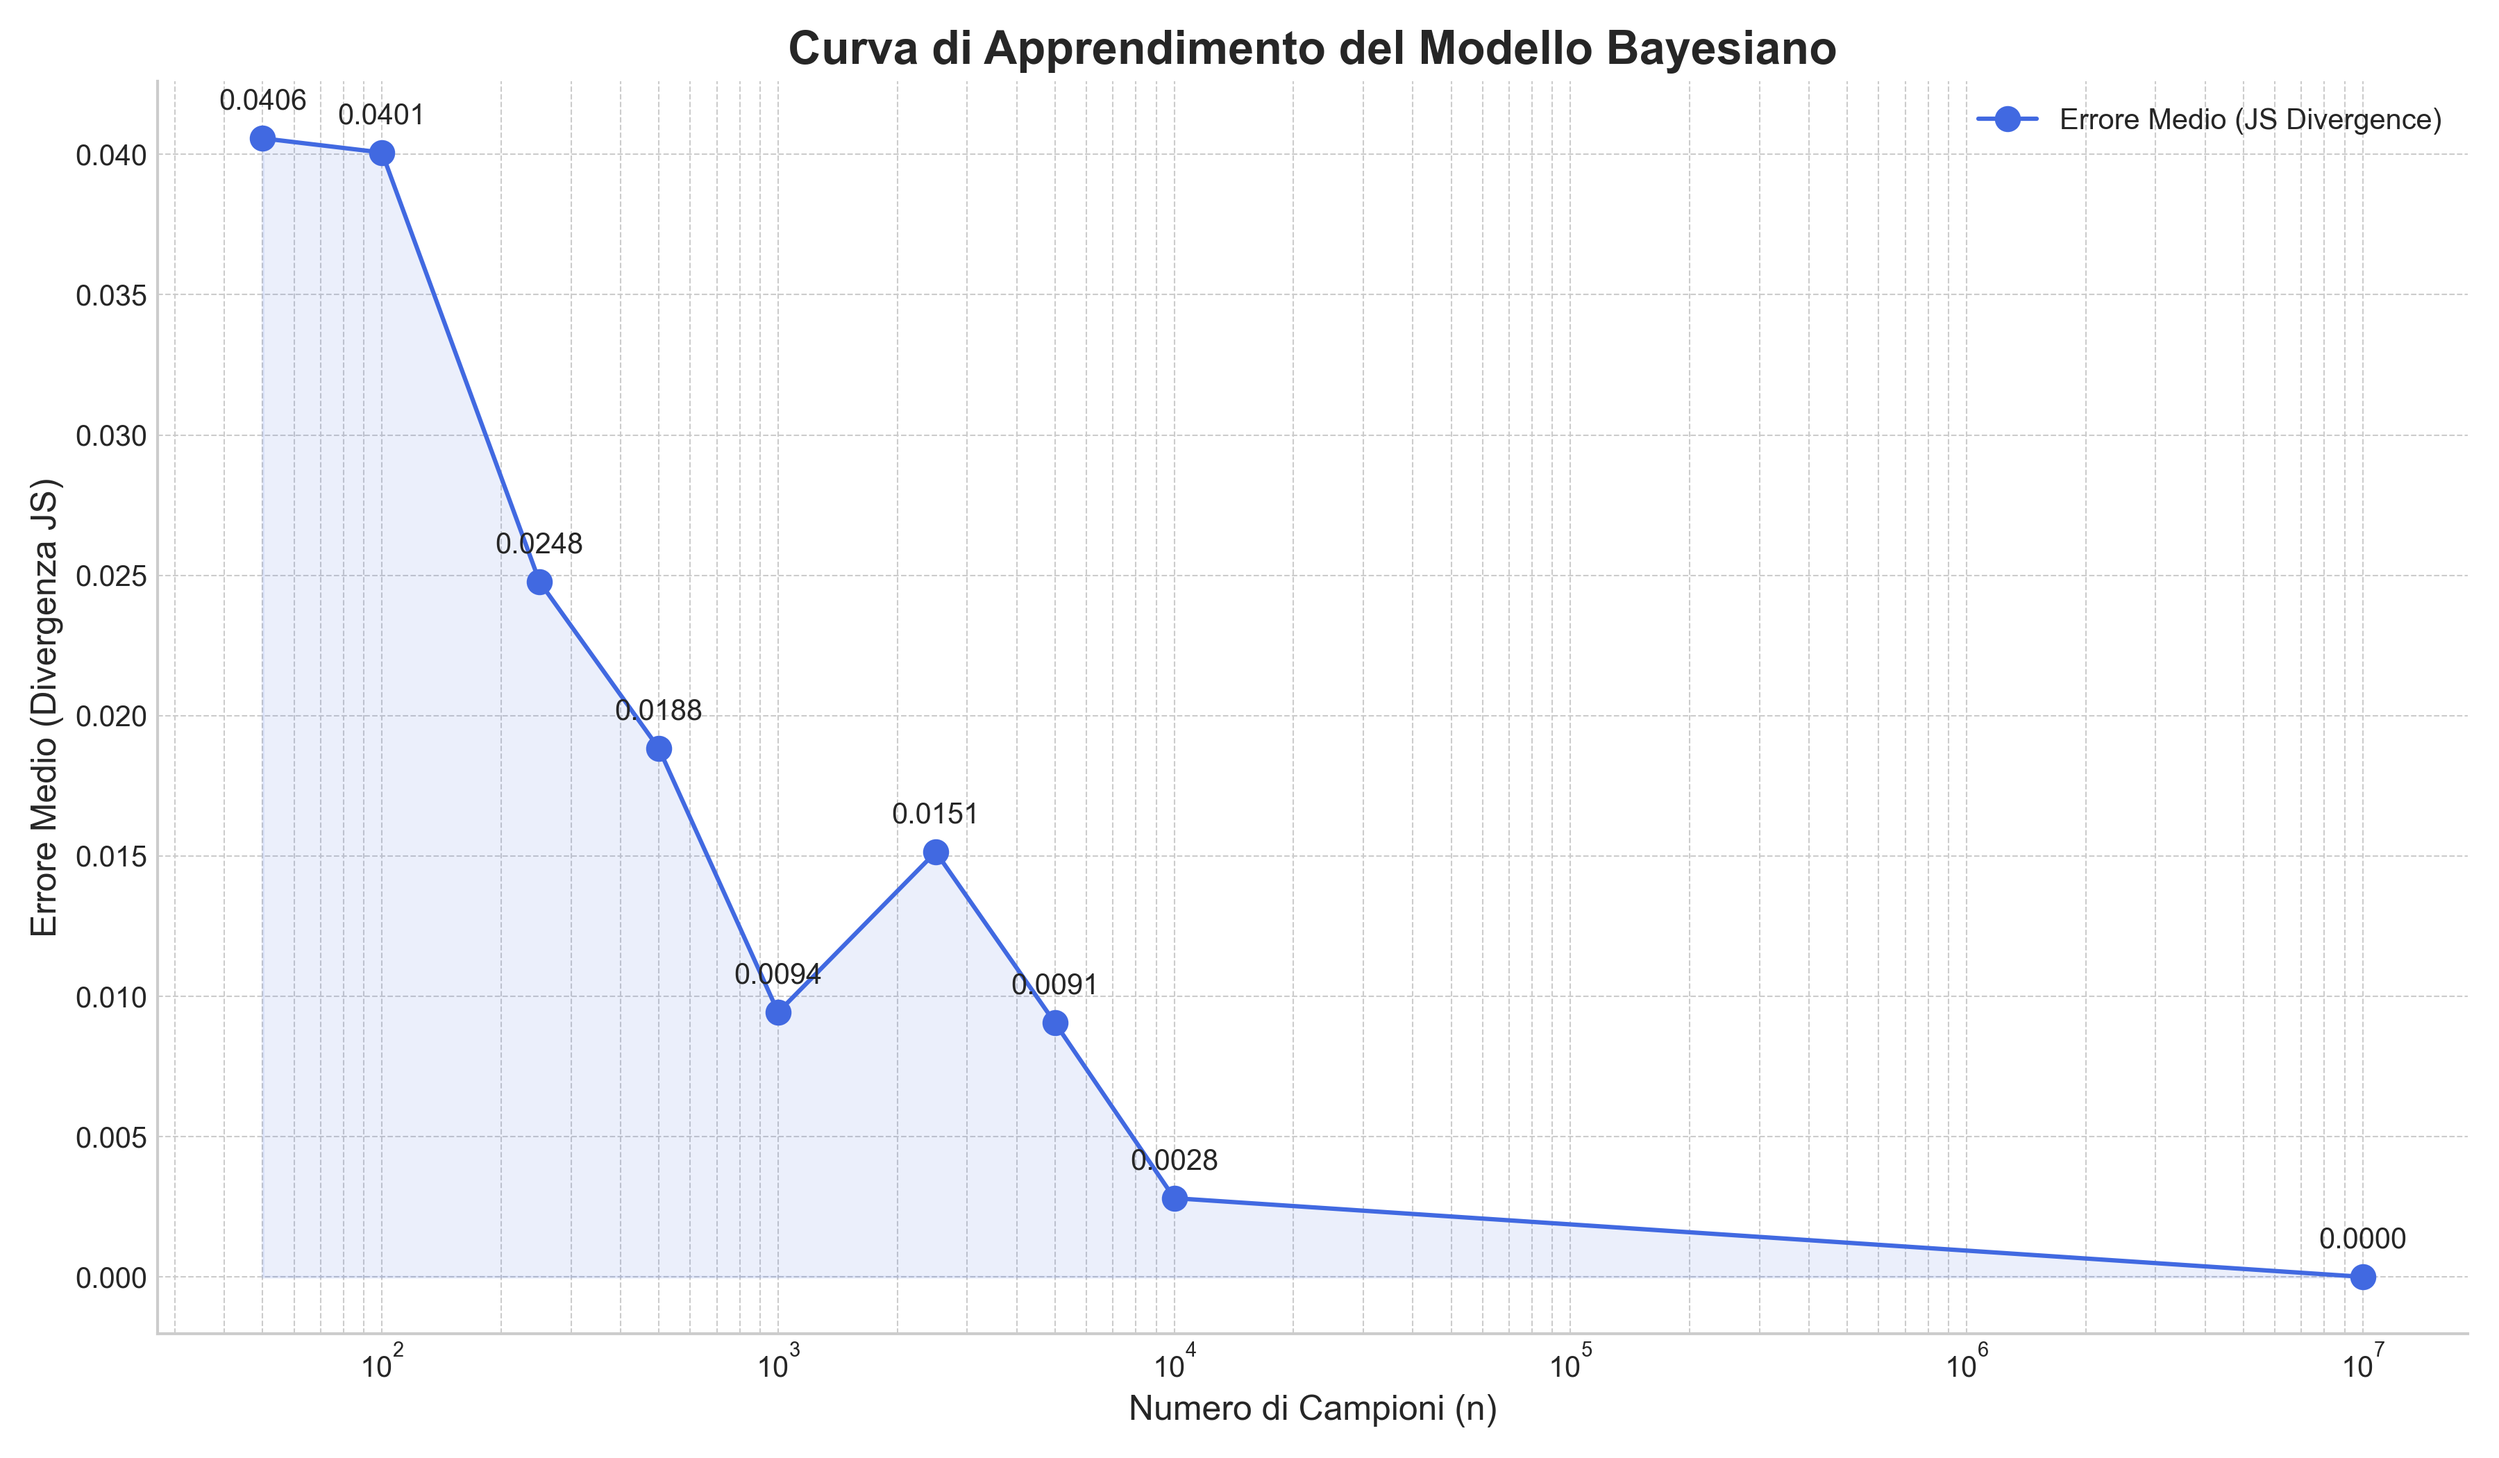
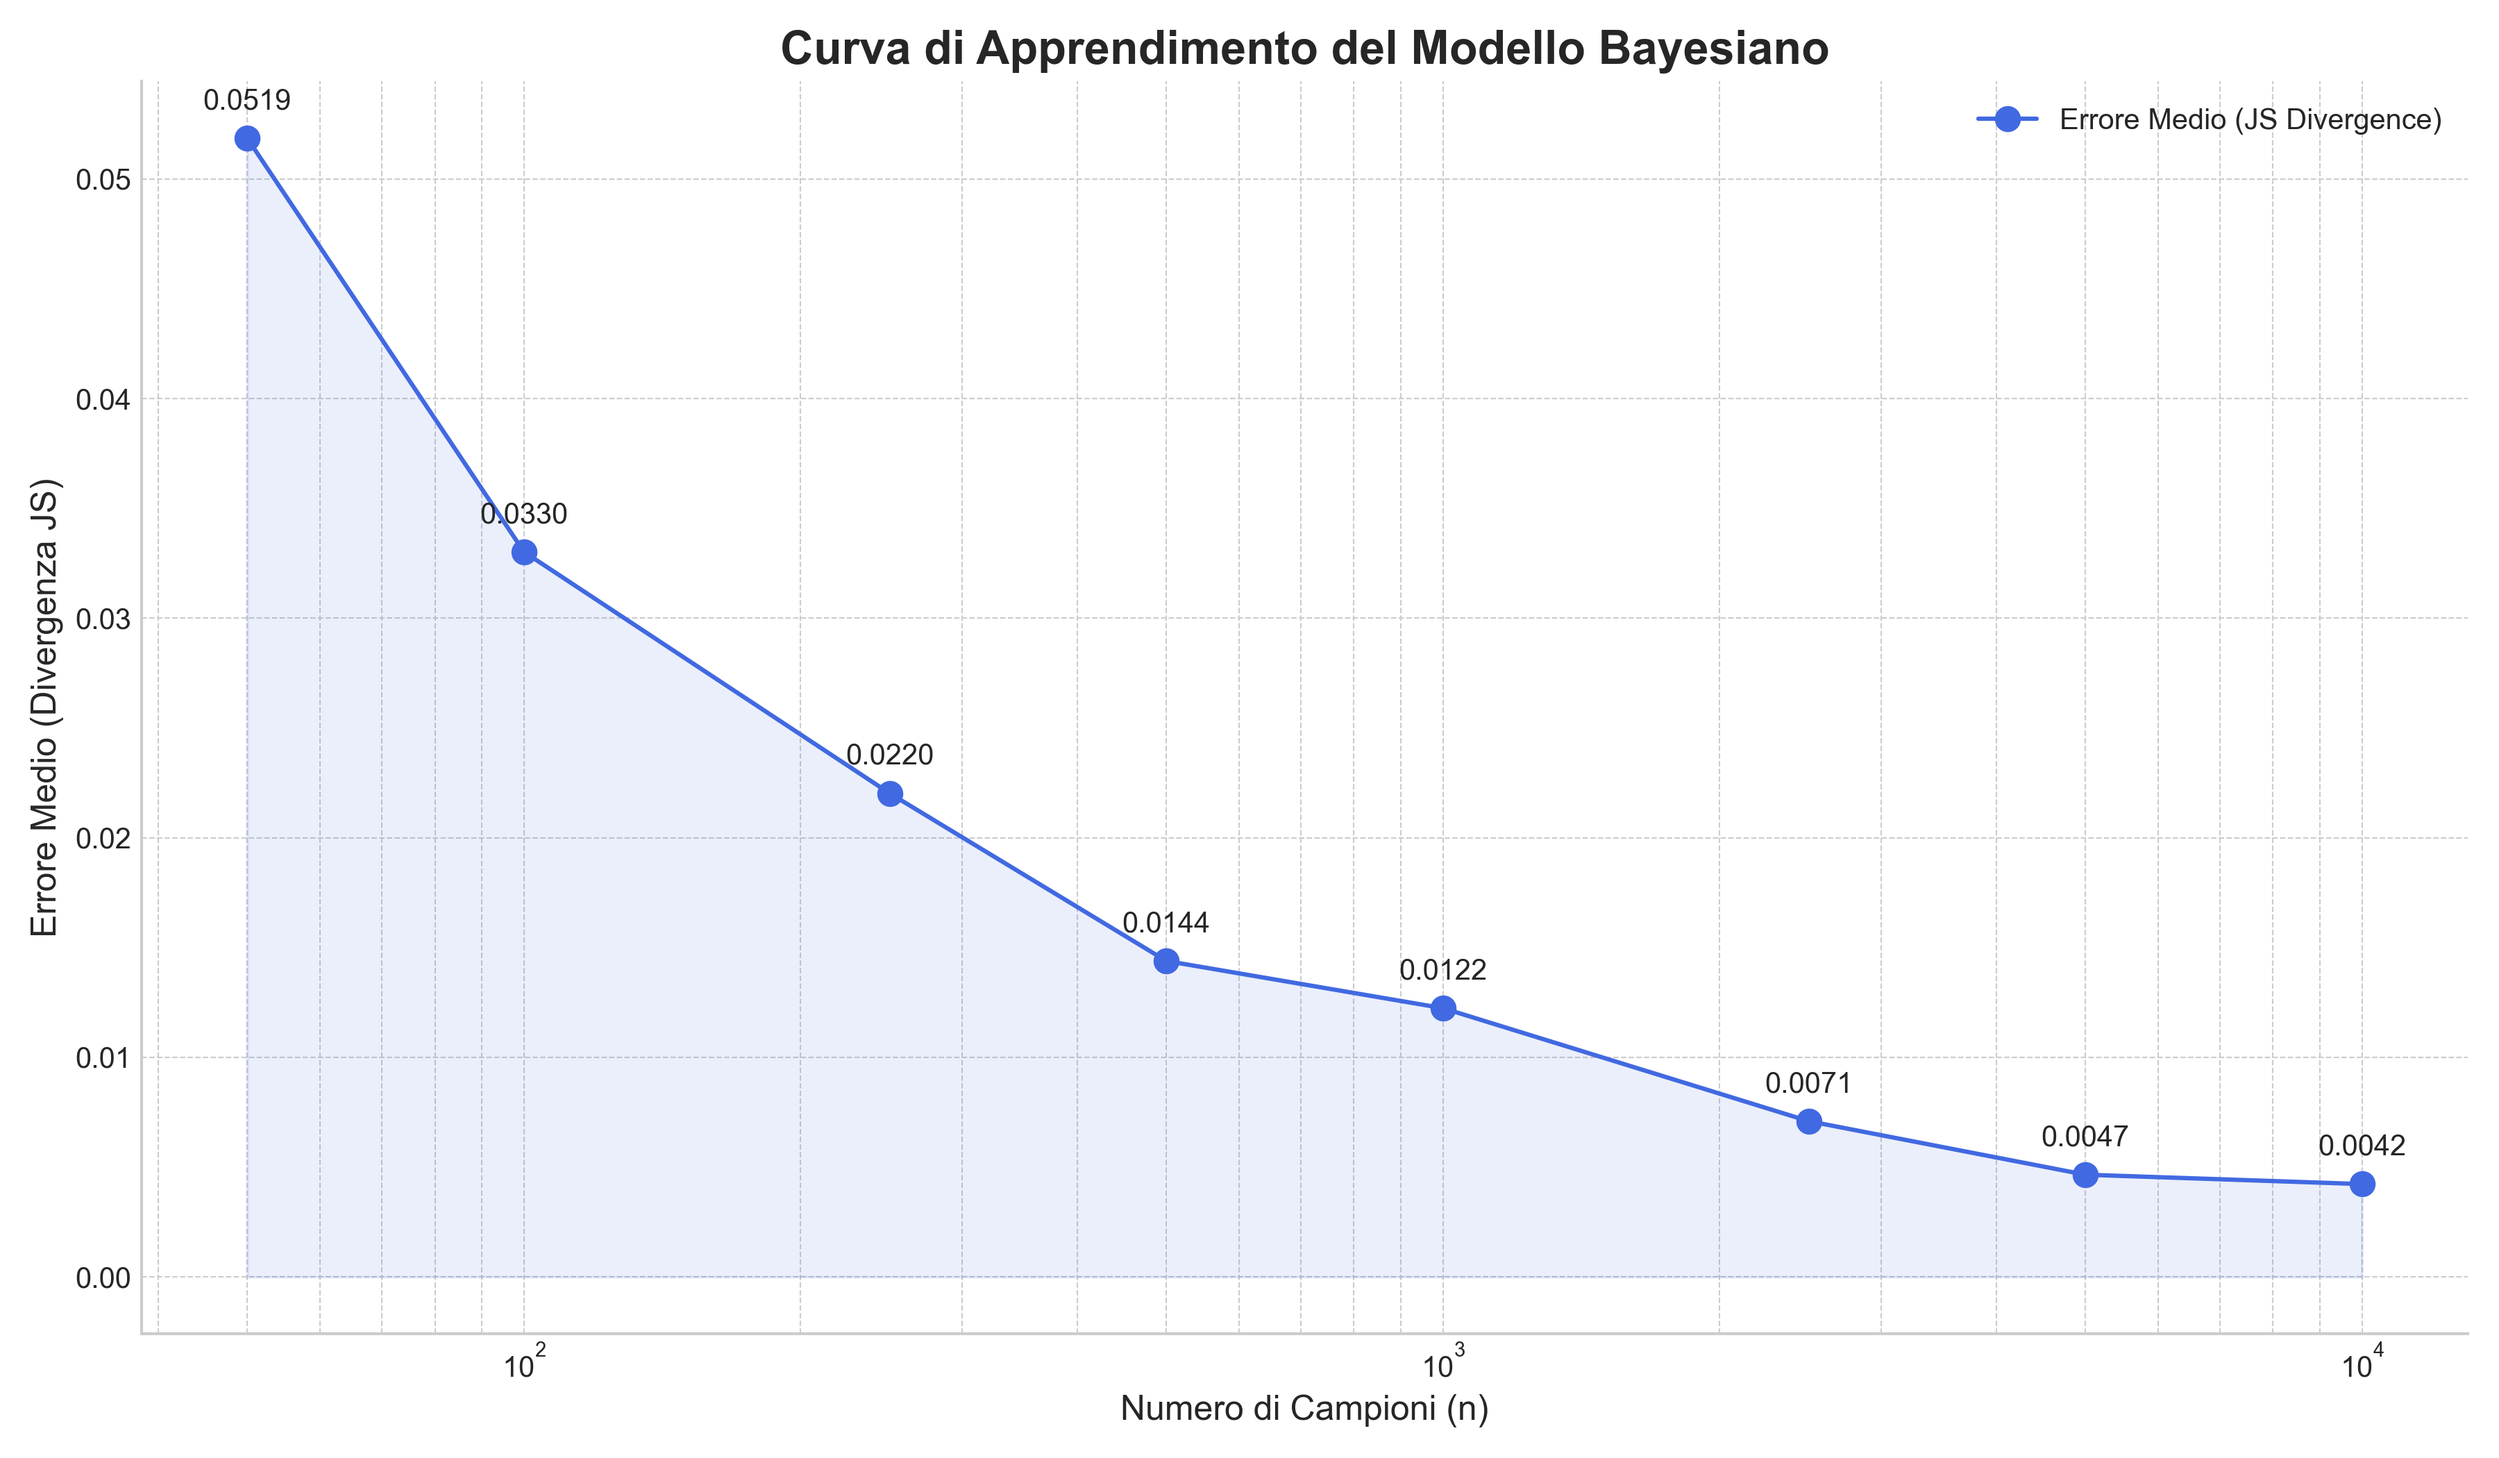
fixed readme.md

diff --git a/main.py b/main.py
@@ -10,23 +10,25 @@ def main():
     """
     print("--- Inizio Esperimento Curva di Apprendimento ---")
 
-    # --- 1. SETUP ---
+    # --- SETUP ---
     # Definiamo le dimensioni dei dataset da testare
-    dimensioni_campione = [50, 100, 250, 500, 1000, 2500,5000,10000,10000000]  # massimo 10 000 con andes.bif
+    dimensioni_campione = [50, 100, 250, 500, 1000, 2500, 5000, 10000]  # massimo 10 000 con andes.bif
     risultati_divergenza = [] # Qui salveremo gli errori per ogni dimensione
 
     # Carichiamo la rete originale che rappresenta la "verita'"
     p_vera = ReteBayesiana()
     p_vera.carica_da_file_bif("data/asia.bif")
     print("Rete 'vera' (p) caricata con successo.")
+    
 
-    # --- 2. CICLO DI SIMULAZIONE ---
+    # --- CICLO DI SIMULAZIONE ---
     # Eseguiamo l'esperimento per ogni dimensione del campione
     for n in dimensioni_campione:
         print(f"\nInizio test con n = {n} campioni...")
 
         # a. Genera i dati di addestramento
         dati_training = p_vera.genera_campioni(n)
+
         
         # b. Apprendi una nuova rete 'q' dai dati
         q_appresa = impara_parametri(p_vera, dati_training)
@@ -37,7 +39,7 @@ def main():
         
         print(f"Test completato per n={n}. Errore (JS Divergence Media): {errore:.6f}")
 
-    # --- 3. VISUALIZZAZIONE DEL RISULTATO (VERSIONE MIGLIORATA) ---
+    # ---  VISUALIZZAZIONE DEL RISULTATO  ---
     print("\n--- Generazione del grafico della curva di apprendimento... ---")
     
     # Usiamo uno stile piu' professionale per il grafico
@@ -65,8 +67,7 @@ def main():
     
     # Aggiunge una legenda
     ax.legend()
-    
-    # Rimuove le cornici superflue per un look piu' pulito
+
     ax.spines['top'].set_visible(False)
     ax.spines['right'].set_visible(False)
     
@@ -74,11 +75,9 @@ def main():
     plt.tight_layout() # Ottimizza lo spazio
     plt.savefig("curva_apprendimento.png", dpi=300) # Salva in alta risoluzione
     print("Grafico 'curva_apprendimento.png' salvato con successo.")
-    
-    # Mostra il grafico a schermo
+
     plt.show()
 
 
-# Questo blocco viene eseguito solo quando lanci "python main.py"
 if __name__ == "__main__":
     main()

diff --git a/README.md b/README.md
@@ -1,40 +1,42 @@
-# Progetto di Apprendimento dei Parametri per Reti Bayesiane
+# 📊 Apprendimento Bayesiano dei Parametri in Reti Bayesiane
 
-**Studente:** Simone Suma
+**Studente:** Simone Suma  
 **Matricola:** 7125399
 
 ---
 
-## 1. Descrizione del Progetto
+## 🎯 Obiettivo
 
-Questo progetto implementa un algoritmo di **apprendimento Bayesiano dei parametri** per una Rete Bayesiana a struttura nota. L'obiettivo è dimostrare sperimentalmente la convergenza del modello appreso al modello reale all'aumentare della dimensione del dataset di training.
+Questo progetto implementa un sistema di **apprendimento Bayesiano dei parametri** in una rete a struttura nota. L’obiettivo è verificare sperimentalmente la **convergenza delle probabilità stimate** al modello reale all’aumentare della dimensione del dataset.
 
-L'esperimento segue i seguenti passi:
-1.  Caricamento di una rete di riferimento ("ground truth") dal file `asia.bif`.
-2.  Generazione di dataset di training di dimensioni crescenti tramite campionamento ancestrale.
-3.  Apprendimento di una nuova rete per ogni dataset, stimando le CPT tramite un approccio Bayesiano con **smoothing di Laplace** (pseudo-conteggi unitari).
-4.  Calcolo dell'errore tra la rete vera e quella appresa utilizzando la **Divergenza di Jensen-Shannon (JS)** come metrica di distanza.
-5.  Visualizzazione dei risultati tramite una **curva di apprendimento** che mostra la relazione tra la dimensione del campione e l'errore di stima.
+---
 
-## 2. Struttura del Progetto
+## 🧪 Esperimento
 
-Il progetto è organizzato nei seguenti file:
+L’esperimento si articola in cinque fasi principali:
 
-* `main.py`: Lo script principale che orchestra l'intero esperimento, esegue la simulazione per le diverse dimensioni del campione e genera il grafico finale della curva di apprendimento.
-* `rete_bayesiana.py`: Contiene le classi `Nodo` e `ReteBayesiana`, che definiscono la struttura dati della rete. Include i metodi per caricare una rete da un file `.bif` e per generare campioni.
-* `algoritmi.py`: Contiene le funzioni logiche del progetto:
-    * `impara_parametri()`: Implementa l'algoritmo di apprendimento Bayesiano con smoothing di Laplace.
-    * `js_divergence()`: Implementa la metrica di distanza per confrontare le distribuzioni di probabilità.
-* `asia.bif`: Il file di definizione della rete Bayesiana "Asia", utilizzato come ground truth per l'esperimento.
+1. **Caricamento della rete di riferimento** (ground truth) dal file `asia.bif`.
+2. **Generazione di dataset** di dimensioni crescenti tramite **campionamento ancestrale**.
+3. **Apprendimento dei parametri** utilizzando **smoothing di Laplace** (pseudo-conteggi iniziali).
+4. **Calcolo dell’errore** tra il modello reale e quello appreso, utilizzando la **divergenza di Jensen-Shannon (JS)** come metrica di confronto.
+5. **Visualizzazione grafica** della curva di apprendimento, che mostra l'andamento dell’errore rispetto alla quantità di dati.
 
-## 3. Prerequisiti
+---
 
-Per eseguire il codice, sono necessarie le seguenti librerie Python. È consigliabile installarle tramite `pip`.
+## 📁 Struttura del progetto
 
-* Python 3.x
-* Matplotlib
-* NumPy
+- `main.py`: Esegue l’intero esperimento e produce il grafico finale.
+- `rete_bayesiana.py`: Contiene le classi `Nodo` e `ReteBayesiana`.
+- `algoritmi.py`: Include le funzioni di apprendimento e di confronto tra modelli.
+- `asia.bif`: Rete Bayesiana utilizzata come riferimento.
+- `requirements.txt`: File delle dipendenze Python.
 
-Puoi installare le dipendenze con il seguente comando:
+---
+
+## ▶ Esecuzione
+
+Assicurati di avere **Python 3.8 o superiore** installato. Poi, installa le dipendenze richieste ed esegui il progetto:
+
 ```bash
-pip install matplotlib numpy
+pip install -r requirements.txt
+python3 main.py
